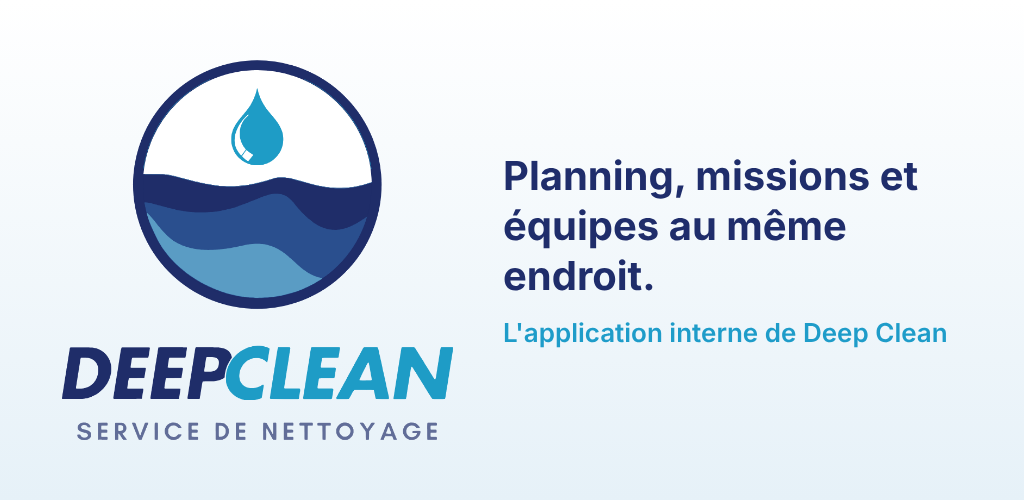
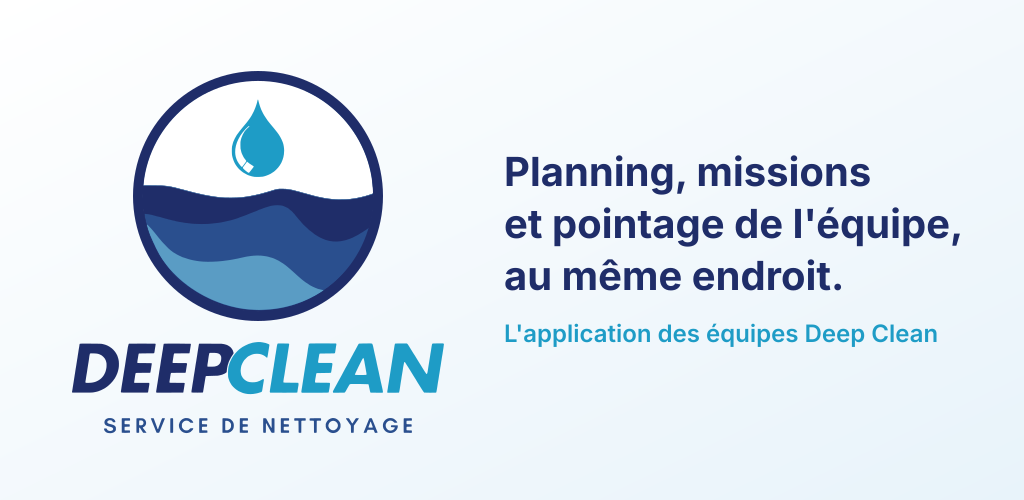
Charte graphique : couleurs officielles, lancement avec le médaillon, icônes Android
- Palette de l'interface tirée du logo officiel (marine #1F2D69, bleu
  #2A4F8E, bleu goutte #1E9CC6) au lieu du bleu-vert de l'ancien logo ;
  contrastes vérifiés (texte et boutons ≥ 4,5:1, clair comme sombre).
- Écran de lancement iOS/Android : médaillon officiel sur fond blanc, à
  l'identique de l'écran de chargement et de l'animation d'ouverture
  (plus d'ancienne goutte sur fond noir, plus de flash de couleur).
- Android : icône thématique et icône de notification au médaillon.
- Bannière Google Play régénérée, sans « application interne ».
- Visuels produits par tools/brand/generate-app-assets.ts à partir des
  tracés du logo (reproductibles) ; anciens logos et écran inutilisé retirés.

Claude-Session: https://claude.ai/code/session_01TyVExU7WAmAkDbYikS42N7

diff --git a/tools/brand/generate-app-assets.ts b/tools/brand/generate-app-assets.ts
@@ -1,0 +1,133 @@
+// Génère les visuels de l'application à partir des tracés vectoriels du logo
+// officiel (mobile/src/components/brandArtwork.ts) — jamais à la main, pour
+// qu'ils restent fidèles à la charte : marine #1F2D69, bleu #2A4F8E, bleu
+// vagues #5A9CC4, bleu goutte #1E9CC6, blanc.
+//
+// Lancer depuis la racine du dépôt :
+//   application/backend/node_modules/.bin/tsx tools/brand/generate-app-assets.ts
+//
+// Produit :
+// - application/mobile/assets/splash-icon.png        écran de lancement (médaillon + halo, fond transparent)
+// - application/mobile/assets/android-icon-monochrome.png  icône thématique Android 13+ (silhouette blanche)
+// - application/mobile/assets/brand/notification-icon.png  petite icône des notifications Android
+// - application/presentation/store/google-banniere-1024x500.png  bannière de la fiche Google Play
+import { createRequire } from "node:module";
+import path from "node:path";
+import { fileURLToPath } from "node:url";
+import { BRAND_ART, TAGLINE_VIEWBOX, TITLE_VIEWBOX } from "../../application/mobile/src/components/brandArtwork";
+
+const here = path.dirname(fileURLToPath(import.meta.url));
+const root = path.resolve(here, "../..");
+// sharp est déjà une dépendance du serveur : pas de nouvelle installation.
+const sharp = createRequire(path.join(root, "application/backend/package.json"))("sharp") as typeof import("sharp");
+
+const NAVY = "#1F2D69";
+const MID = "#2A4F8E";
+const LIGHT = "#5A9CC4";
+const DROP = "#1E9CC6";
+
+const E = BRAND_ART.emblem;
+
+/** Médaillon complet, centré en (cx, cy), de diamètre extérieur `d`. */
+function emblem(cx: number, cy: number, d: number): string {
+  const outer = E.ringR + E.ringWidth / 2;
+  const scale = d / 2 / outer;
+  return `<g transform="translate(${cx - E.cx * scale} ${cy - E.cy * scale}) scale(${scale})">
+    <circle cx="${E.cx}" cy="${E.cy}" r="${E.ringR}" fill="#FFFFFF"/>
+    <path d="${E.waveNavy}" fill="${NAVY}" fill-rule="evenodd"/>
+    <path d="${E.waveMid}" fill="${MID}" fill-rule="evenodd"/>
+    <path d="${E.waveLight}" fill="${LIGHT}" fill-rule="evenodd"/>
+    <path d="${E.drop}" fill="${DROP}" fill-rule="evenodd"/>
+    <circle cx="${E.cx}" cy="${E.cy}" r="${E.ringR}" fill="none" stroke="${NAVY}" stroke-width="${E.ringWidth}"/>
+  </g>`;
+}
+
+/** Silhouette blanche du médaillon (cercle, vagues, goutte) pour les icônes teintées par le système. */
+function emblemSilhouette(cx: number, cy: number, d: number): string {
+  const outer = E.ringR + E.ringWidth / 2;
+  const scale = d / 2 / outer;
+  return `<g transform="translate(${cx - E.cx * scale} ${cy - E.cy * scale}) scale(${scale})" fill="#FFFFFF">
+    <path d="${E.waveNavy}" fill-rule="evenodd"/>
+    <path d="${E.waveMid}" fill-rule="evenodd"/>
+    <path d="${E.waveLight}" fill-rule="evenodd"/>
+    <path d="${E.drop}" fill-rule="evenodd"/>
+    <circle cx="${E.cx}" cy="${E.cy}" r="${E.ringR}" fill="none" stroke="#FFFFFF" stroke-width="${E.ringWidth * 1.4}"/>
+  </g>`;
+}
+
+function title(x: number, y: number, width: number): string {
+  const s = width / TITLE_VIEWBOX.w;
+  return `<g transform="translate(${x - TITLE_VIEWBOX.x * s} ${y - TITLE_VIEWBOX.y * s}) scale(${s})">
+    <path d="${BRAND_ART.title.deep}" fill="${NAVY}" fill-rule="evenodd"/>
+    <path d="${BRAND_ART.title.clean}" fill="${DROP}" fill-rule="evenodd"/>
+  </g>`;
+}
+
+function tagline(x: number, y: number, width: number, color: string): string {
+  const s = width / TAGLINE_VIEWBOX.w;
+  return `<g transform="translate(${x - TAGLINE_VIEWBOX.x * s} ${y - TAGLINE_VIEWBOX.y * s}) scale(${s})">
+    <path d="${BRAND_ART.tagline.d}" fill="${color}" fill-rule="evenodd"/>
+  </g>`;
+}
+
+async function png(svg: string, out: string, size?: { width: number; height: number }) {
+  let img = sharp(Buffer.from(svg), { density: 72 });
+  if (size) img = img.resize(size.width, size.height);
+  await img.png({ compressionLevel: 9 }).toFile(path.join(root, out));
+  console.log("✓", out);
+}
+
+async function main() {
+  // Écran de lancement : posé sur fond blanc (app.json), comme l'icône et
+  // l'animation d'ouverture BrandIntro qui suit — halo bleu goutte discret.
+  await png(
+    `<svg xmlns="http://www.w3.org/2000/svg" width="1024" height="1024" viewBox="0 0 1024 1024">
+      <circle cx="512" cy="512" r="500" fill="${DROP}" fill-opacity="0.06"/>
+      <circle cx="512" cy="512" r="448" fill="${DROP}" fill-opacity="0.08"/>
+      ${emblem(512, 512, 800)}
+    </svg>`,
+    "application/mobile/assets/splash-icon.png"
+  );
+
+  // Icône thématique Android : silhouette dans la zone sûre (≈ 61 %).
+  await png(
+    `<svg xmlns="http://www.w3.org/2000/svg" width="1024" height="1024" viewBox="0 0 1024 1024">${emblemSilhouette(512, 512, 560)}</svg>`,
+    "application/mobile/assets/android-icon-monochrome.png"
+  );
+
+  // Icône des notifications Android : blanche sur transparent, 96 × 96.
+  await png(
+    `<svg xmlns="http://www.w3.org/2000/svg" width="384" height="384" viewBox="0 0 384 384">${emblemSilhouette(192, 192, 360)}</svg>`,
+    "application/mobile/assets/brand/notification-icon.png",
+    { width: 96, height: 96 }
+  );
+
+  // Bannière Google Play 1024 × 500 : logo officiel complet à gauche,
+  // promesse de l'application à droite, fond clair de la charte.
+  await png(
+    `<svg xmlns="http://www.w3.org/2000/svg" width="1024" height="500" viewBox="0 0 1024 500">
+      <defs>
+        <linearGradient id="bg" x1="0" y1="0" x2="1" y2="1">
+          <stop offset="0" stop-color="#FFFFFF"/>
+          <stop offset="1" stop-color="#E8F3FA"/>
+        </linearGradient>
+      </defs>
+      <rect width="1024" height="500" fill="url(#bg)"/>
+      ${emblem(258, 196, 250)}
+      ${title(72, 342, 372)}
+      ${tagline(104, 418, 308, MID)}
+      <text font-family="Inter" font-weight="700" font-size="40" fill="${NAVY}">
+        <tspan x="504" y="186">Planning, missions</tspan>
+        <tspan x="504" y="238">et pointage de l'équipe,</tspan>
+        <tspan x="504" y="290">au même endroit.</tspan>
+      </text>
+      <text x="504" y="342" font-family="Inter" font-weight="600" font-size="24" fill="${DROP}">L'application des équipes Deep Clean</text>
+    </svg>`,
+    "application/presentation/store/google-banniere-1024x500.png"
+  );
+}
+
+main().catch((err) => {
+  console.error(err);
+  process.exit(1);
+});

diff --git a/application/mobile/src/theme/colors.ts b/application/mobile/src/theme/colors.ts
@@ -1,16 +1,24 @@
-// Palette Deep Clean — dérivée du logo (goutte monochrome) : un accent teal
-// décliné en rampe (jamais en valeur plate), sur un système de surfaces à
+// Palette Deep Clean — tirée de la charte officielle (logo médaillon : marine
+// #1F2D69, bleu #2A4F8E, bleu vagues #5A9CC4, bleu goutte #1E9CC6). L'accent
+// est décliné en rampe (jamais en valeur plate), sur un système de surfaces à
 // plusieurs paliers d'élévation. Le mode sombre n'utilise jamais de noir pur
 // (#000000) : sur un fond totalement noir, aucune ombre ne peut se voir et
 // toutes les cartes se confondent avec le fond — d'où un anthracite bleu-nuit
 // profond comme base, chaque palier suivant légèrement plus clair.
 
+// Contrastes vérifiés (WCAG) : base sur blanc 8,0:1 et texte blanc sur base
+// 8,0:1 ; deep 12,8:1 ; bright (goutte) réservé aux décors, anneaux et
+// accents graphiques — jamais à du texte sur fond clair (3,2:1).
 const accent = {
-  50: "#EAF6F8",
-  100: "#CDEAEF",
-  deep: "#0B5A70",
-  base: "#0E7490",
-  bright: "#22D3EE",
+  50: "#E8F3FA",
+  100: "#CDE5F3",
+  deep: "#1F2D69",
+  base: "#2A4F8E",
+  bright: "#1E9CC6",
+  // Mode sombre : texte/icône accent (7,9:1 sur les cartes) et aplats des
+  // boutons (texte blanc 5,7:1, bouton visible sur le fond à 3,4:1).
+  nightText: "#6FB6DE",
+  nightFill: "#3366B0",
 };
 
 export type ThemeMode = "light" | "dark";
@@ -130,16 +138,16 @@ const dark: PaletteShape = {
   // ne sert JAMAIS de fond plein sous du texte (contraste ~1.8:1, illisible) —
   // les remplissages (boutons, pastille sélectionnée, case cochée) utilisent
   // le dégradé deep→base, plus sombre, avec onAccent clair par-dessus.
-  accent: accent.bright,
-  // Jamais `accent.bright` ici : voir le commentaire de `accentFill` plus haut
-  // (contraste ~1.8:1 avec `onAccent`, contre ~7:1 avec cette valeur).
-  accentFill: accent.base,
+  accent: accent.nightText,
+  // Un aplat plus lumineux que `base` : le marine se confondrait avec le fond
+  // anthracite, et le texte clair reste lisible dessus (5,7:1).
+  accentFill: accent.nightFill,
   accentDeep: accent.deep,
-  accentText: "#67D4E6",
+  accentText: "#8CCDEB",
   accentBright: accent.bright,
-  accentGradient: [accent.deep, accent.base],
-  accentPressed: accent.deep,
-  accentSoft: "rgba(14,116,144,0.18)",
+  accentGradient: [accent.base, accent.nightFill],
+  accentPressed: accent.base,
+  accentSoft: "rgba(30,156,198,0.18)",
   onAccent: "#F2FBFD",
   neutral: "#94A3B8",
   neutralSoft: "rgba(148,163,184,0.14)",

diff --git a/application/mobile/src/components/SplashGate.tsx b/application/mobile/src/components/SplashGate.tsx
@@ -1,22 +1,38 @@
 import React from "react";
 import { ActivityIndicator, StyleSheet, View } from "react-native";
-import { useTheme } from "../theme/ThemeProvider";
-import { LogoMark } from "./LogoMark";
+import { BrandEmblem } from "./BrandEmblem";
 
-// Affiché pendant la restauration de session au démarrage (lecture du refresh
-// token sécurisé + vérification auprès du serveur).
+// Fond blanc, identique à l'écran de lancement natif (app.json, plugin
+// expo-splash-screen), à l'icône et à l'animation d'ouverture BrandIntro : le
+// passage du lancement à l'application se fait sans aucun flash de couleur.
+export const SPLASH_BACKGROUND = "#FFFFFF";
+const DROP = "#1E9CC6";
+const MID = "#2A4F8E";
+// Même géométrie que assets/splash-icon.png (généré par
+// tools/brand/generate-app-assets.ts) affiché à `imageWidth` = 200 :
+// médaillon = 800/1024 de l'image, halos = 1000/1024 et 896/1024.
+const IMAGE_WIDTH = 200;
+const EMBLEM = Math.round((IMAGE_WIDTH * 800) / 1024);
+
+// Affiché pendant le chargement des polices et la restauration de session au
+// démarrage (lecture du refresh token sécurisé + vérification serveur).
 export function SplashGate() {
-  const { colors, spacing } = useTheme();
-
   return (
-    <View style={[styles.container, { backgroundColor: colors.background }]}>
-      <LogoMark size={64} />
-      <View style={{ height: spacing.xl }} />
-      <ActivityIndicator color={colors.accent} />
+    <View style={styles.container} accessibilityLabel="Deep Clean, chargement">
+      <View style={styles.stage}>
+        <View style={[styles.halo, { width: (IMAGE_WIDTH * 1000) / 1024, height: (IMAGE_WIDTH * 1000) / 1024, opacity: 0.06 }]} />
+        <View style={[styles.halo, { width: (IMAGE_WIDTH * 896) / 1024, height: (IMAGE_WIDTH * 896) / 1024, opacity: 0.08 }]} />
+        <BrandEmblem size={EMBLEM} />
+      </View>
+      <ActivityIndicator color={MID} style={styles.spinner} />
     </View>
   );
 }
 
 const styles = StyleSheet.create({
-  container: { flex: 1, alignItems: "center", justifyContent: "center" },
+  container: { flex: 1, alignItems: "center", justifyContent: "center", backgroundColor: SPLASH_BACKGROUND },
+  stage: { width: IMAGE_WIDTH, height: IMAGE_WIDTH, alignItems: "center", justifyContent: "center" },
+  halo: { position: "absolute", borderRadius: 999, backgroundColor: DROP },
+  // Sous le médaillon, sans décaler celui-ci par rapport au lancement natif.
+  spinner: { position: "absolute", top: "50%", marginTop: IMAGE_WIDTH / 2 + 24 },
 });

diff --git a/application/mobile/public/legal.css b/application/mobile/public/legal.css
@@ -1,5 +1,5 @@
-:root { --ink:#0B1220; --ink2:#475467; --ink3:#667085; --accent:#0E7490; --bg:#F4F6F9; --card:#FFFFFF; --line:#E4E7EC; }
-@media (prefers-color-scheme: dark) { :root { --ink:#F2F4F7; --ink2:#C3C9D3; --ink3:#98A2B3; --accent:#5EC4DB; --bg:#0B0B0F; --card:#16181D; --line:#2A2E36; } }
+:root { --ink:#0B1220; --ink2:#475467; --ink3:#667085; --accent:#2A4F8E; --bg:#F4F6F9; --card:#FFFFFF; --line:#E4E7EC; }
+@media (prefers-color-scheme: dark) { :root { --ink:#F2F4F7; --ink2:#C3C9D3; --ink3:#98A2B3; --accent:#6FB6DE; --bg:#0A0F14; --card:#16181D; --line:#2A2E36; } }
 * { box-sizing: border-box; }
 body { margin:0; background:var(--bg); color:var(--ink); font:16px/1.6 -apple-system, BlinkMacSystemFont, "Segoe UI", Roboto, Helvetica, Arial, sans-serif; }
 main { max-width: 760px; margin: 0 auto; padding: 32px 16px 64px; }
